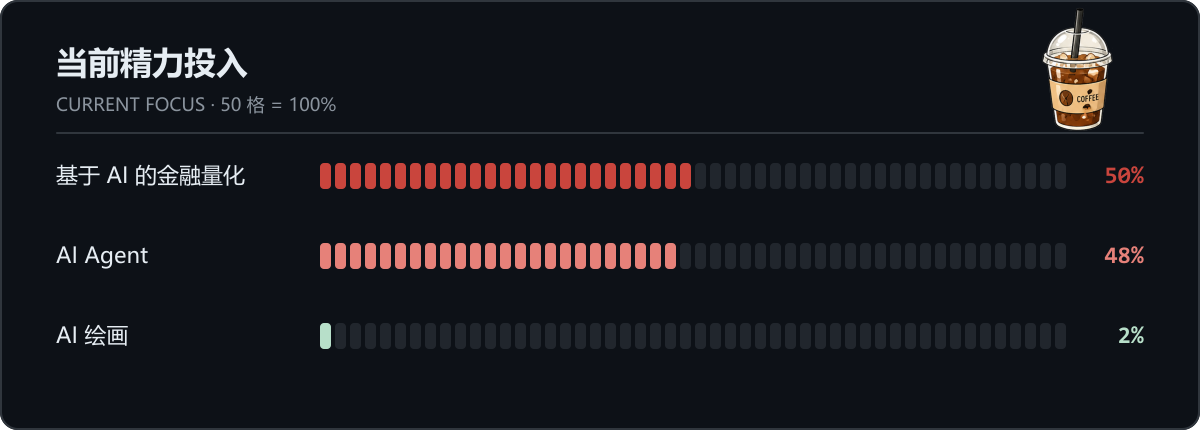
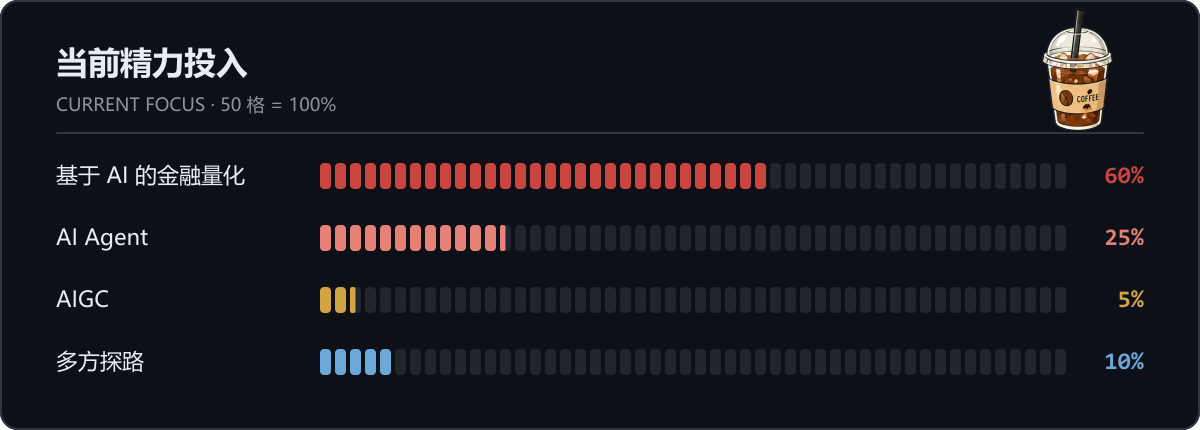
Update current focus heatmap

diff --git a/README.md b/README.md
@@ -6,7 +6,7 @@
 
 <img src="./assets/profile-banner.png" alt="Profile banner" width="100%" />
 
-<img src="./assets/current-focus-heatmap.png" alt="当前精力投入热力图：基于 AI 的金融量化 50%，AI Agent 48%，AI 绘画 2%。" width="100%" />
+<img src="./assets/current-focus-heatmap.png" alt="当前精力投入热力图：基于 AI 的金融量化 60%，AI Agent 25%，AIGC 5%，多方探路 10%。" width="100%" />
 
 <img src="./assets/life-kline-title.svg" alt="What if life could be quantified with OHLC?" width="100%" />
 
